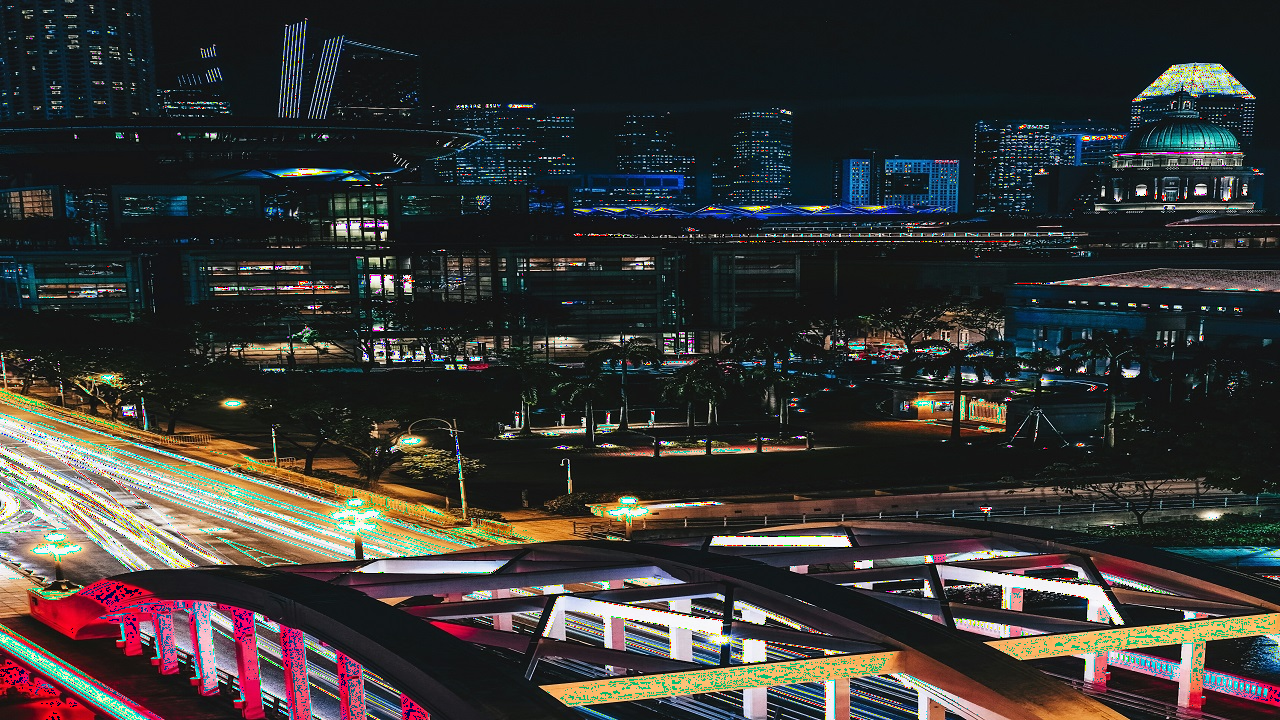
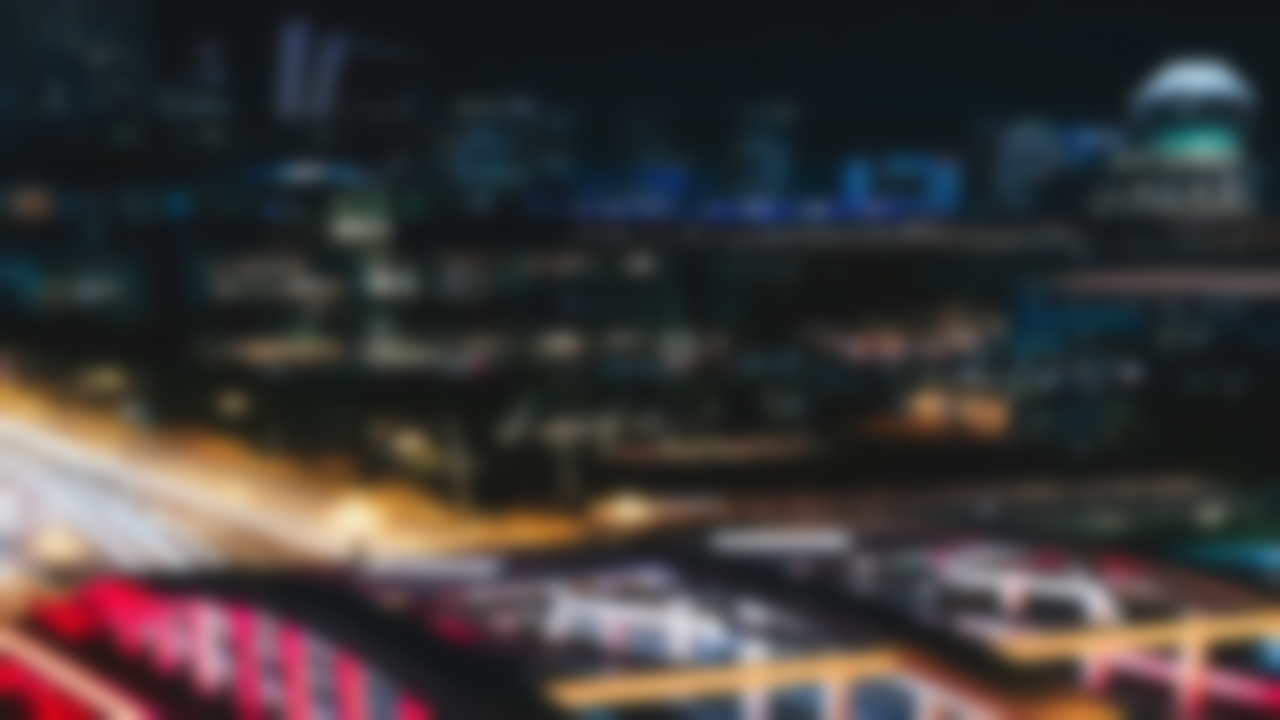
Blur, GaussianBlur 구현

diff --git a/Init/Example.h b/Init/Example.h
@@ -14,6 +14,11 @@ public:
     Vector4& GetPixel(int x, int y);
 
 public:
+    void BoxBlur5();
+    void GaussianBlur5();
+    void Bloom(float theta, int numRepeat, float weight = 1.0f);
+
+public:
     int GetWidth() const { return width; }
     int GetHeight() const { return height; }
     std::vector<Vector4>& GetPixels() { return pixels; }
